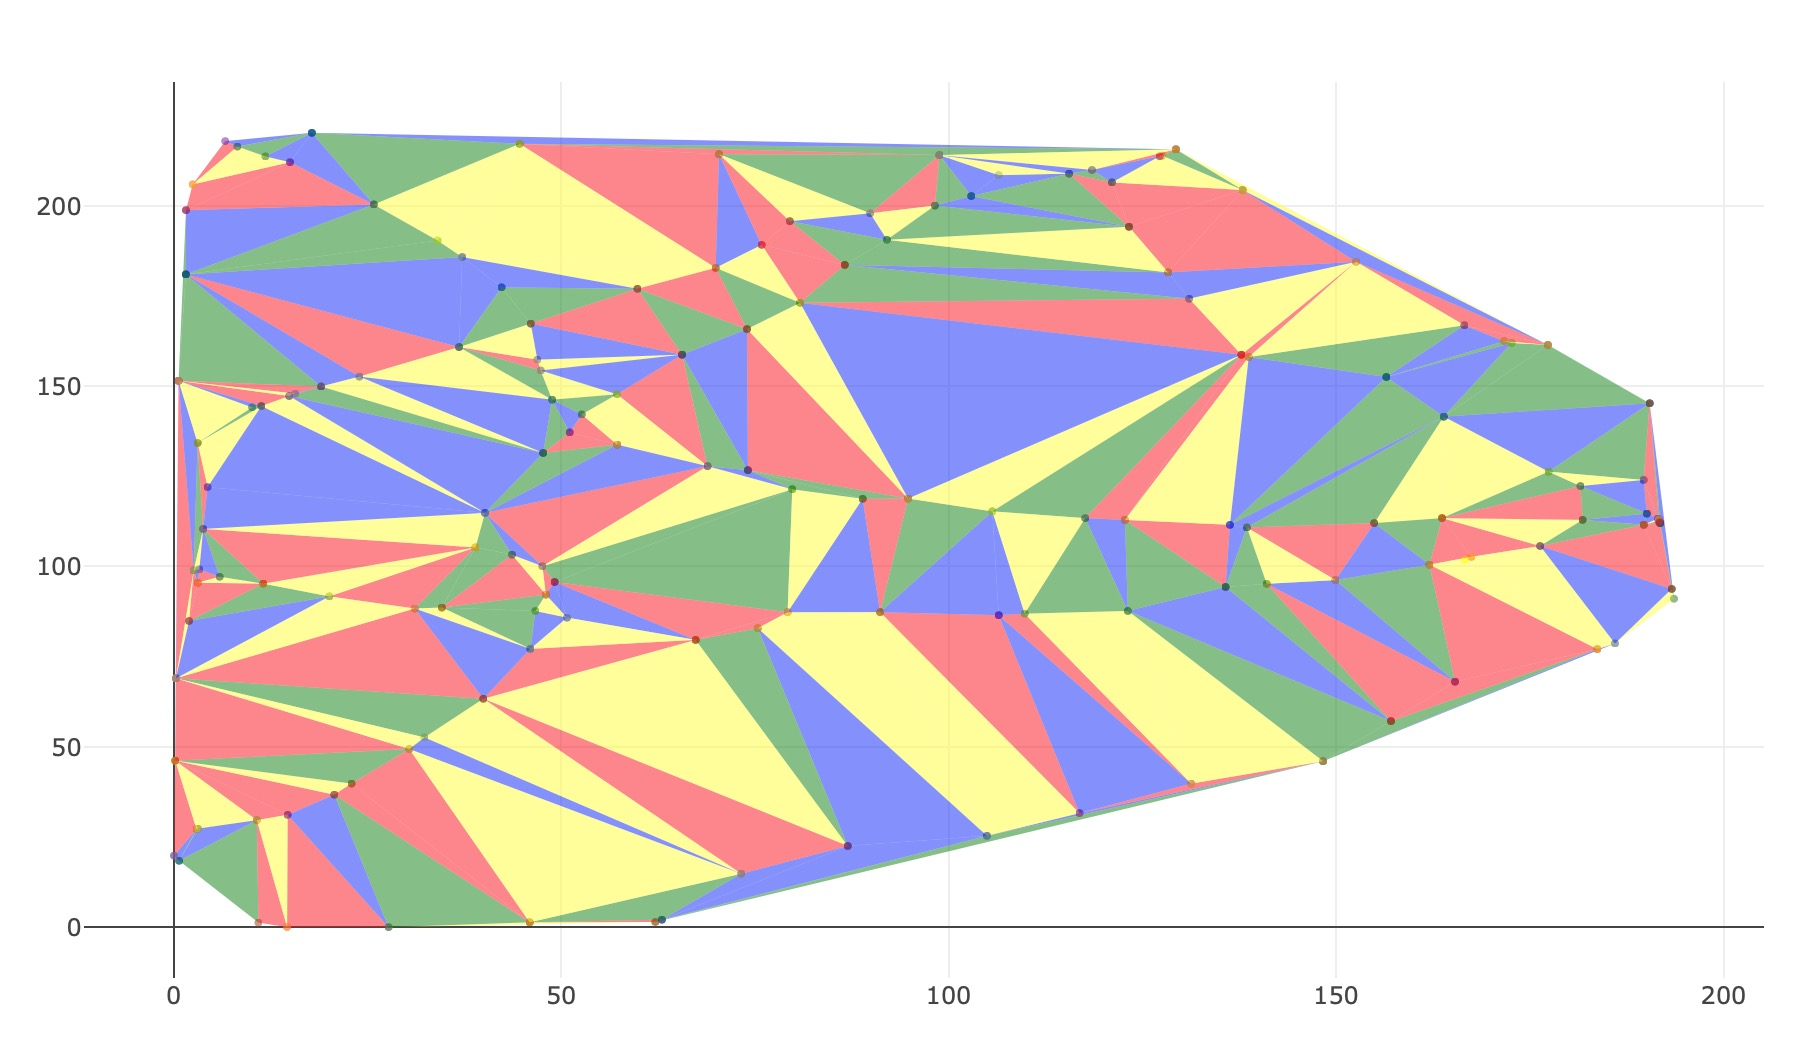
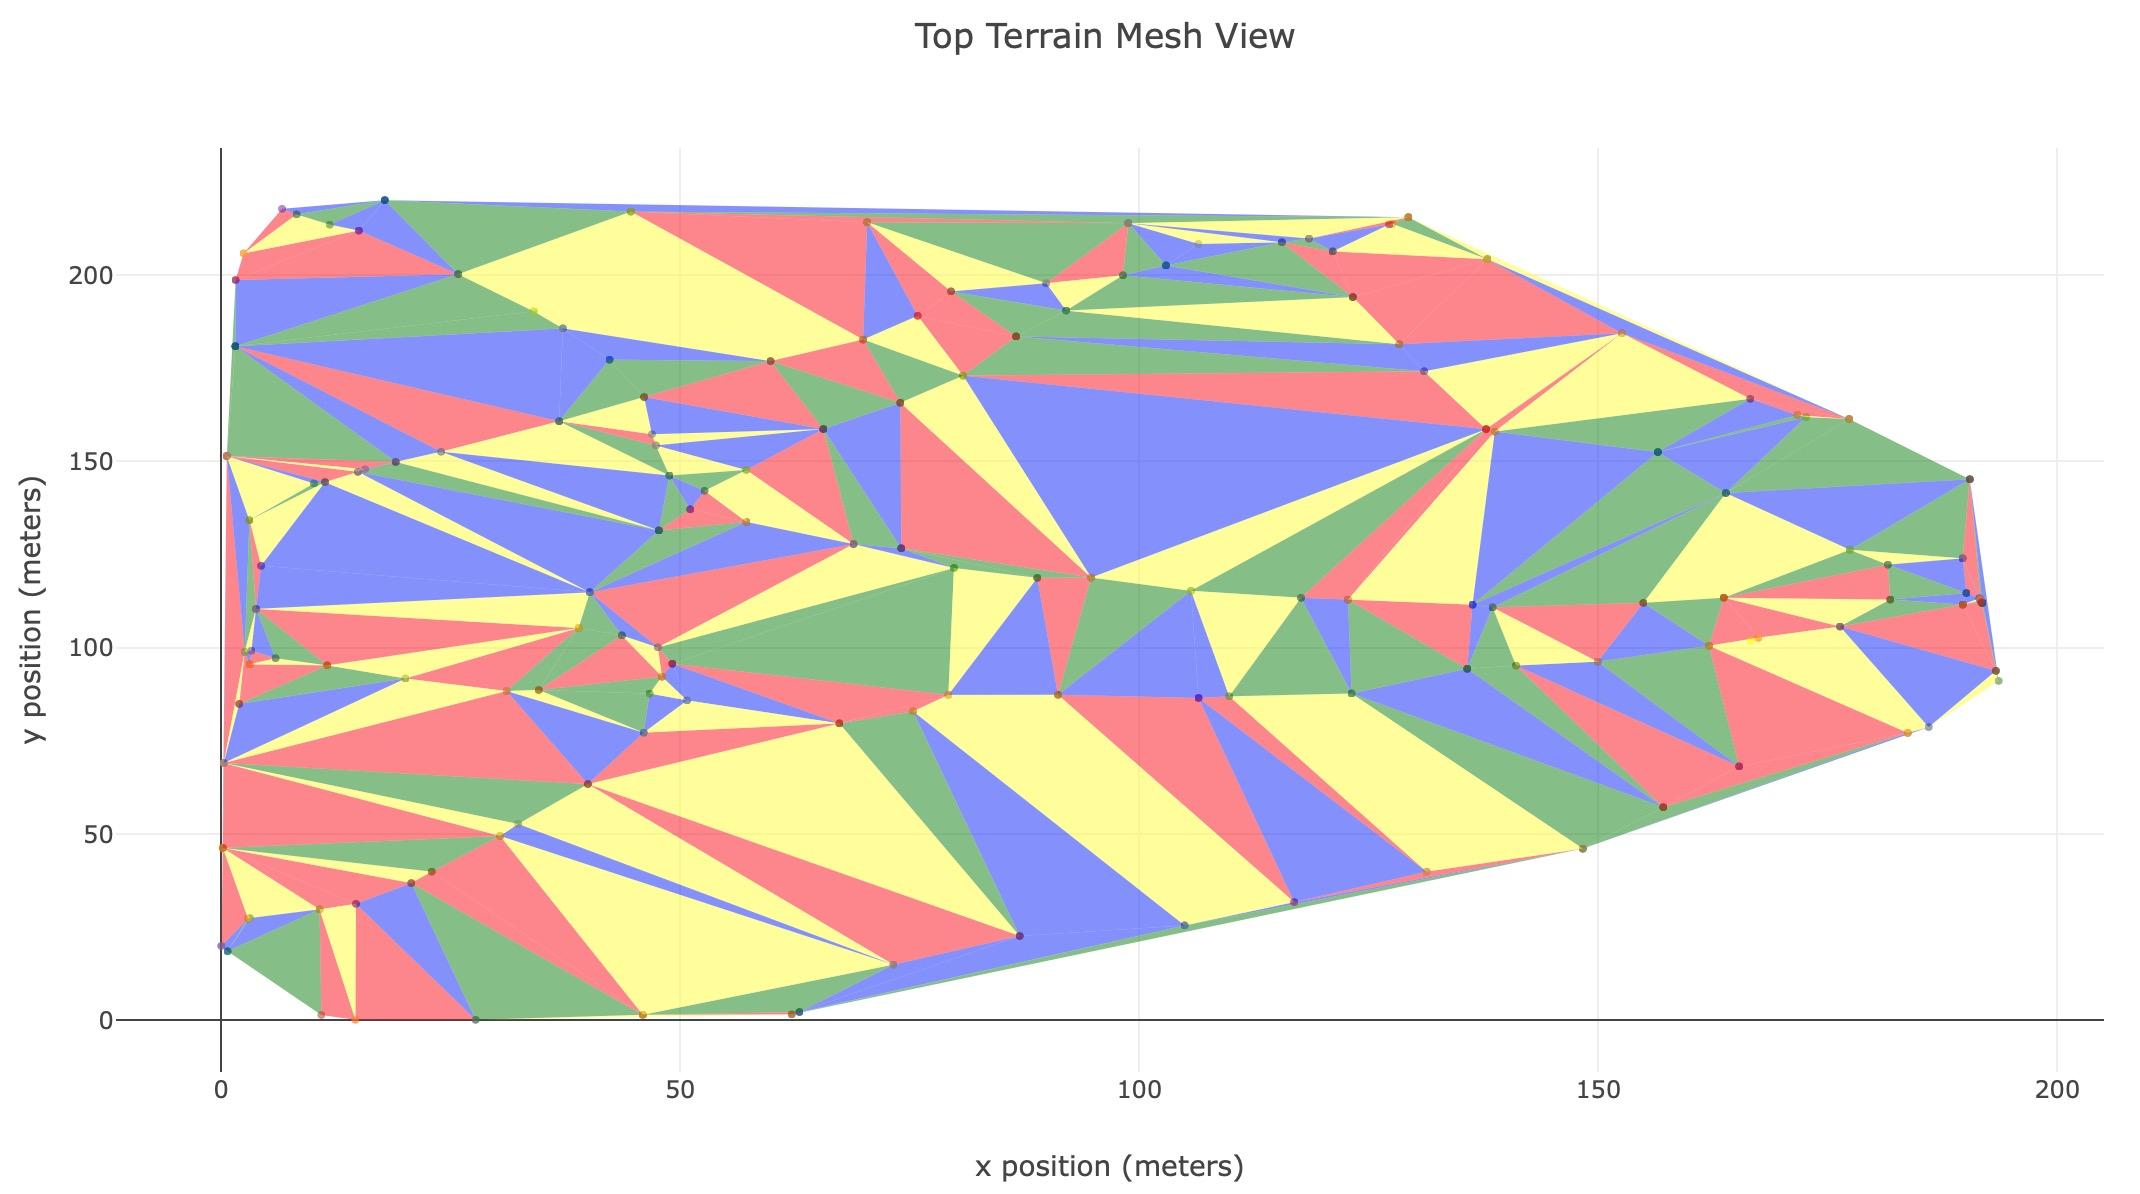
removed unused line of code

diff --git a/volpy/plots.py b/volpy/plots.py
@@ -23,6 +23,9 @@ class SurveyPlot():
         self.survey = survey
 
     def scatter3d(self):
+        """
+        Plots an interactive 3D view of the surveyed terrain.
+        """
         layout = go.Layout(title='Terrain Point Cloud', autosize=True)
         trace = go.Scatter3d(x=self.survey.data.x,
                              y=self.survey.data.y,
@@ -39,6 +42,9 @@ class SurveyPlot():
         return po.plot(figure, filename='3d_view.html')
 
     def contour(self):
+        """
+        Plots a contour of the surveyed terrain.
+        """
         layout = go.Layout(title='Terrain Contour',
                            autosize=True,
                            xaxis=dict(title='x position (meters)'),
@@ -70,6 +76,10 @@ class SurveyPlot():
                             marker=dict(color='#ffb800'))
 
     def profile(self):
+        """
+        Plots a sequence of terrain profiles and histogram of points collected
+        grouped by elevation.
+        """
         figure = tools.make_subplots(rows=2,
                                      cols=2,
                                      subplot_titles=('Survey points collected',
@@ -131,10 +141,6 @@ class SurveyPlot():
                 current_color = 1
 
         figure = go.Figure(data=data)
-        layout = go.Layout(title='Terrain Mesh',
-                           autosize=True,
-                           xaxis=dict(title='x position (meters)'),
-                           yaxis=dict(title='y position (meters)'))
         figure['layout'].update(title='Top Terrain Mesh View',
                                 xaxis=dict(title='x position (meters)'),
                                 yaxis=dict(title='y position (meters)'))

diff --git a/setup.py b/setup.py
@@ -2,7 +2,7 @@ from setuptools import setup, find_packages
 
 setup(
     name='volpy',
-    version='18.12.2',
+    version='18.12.4',
     packages=find_packages(),
     install_requires=['numpy',
                       'scipy',
